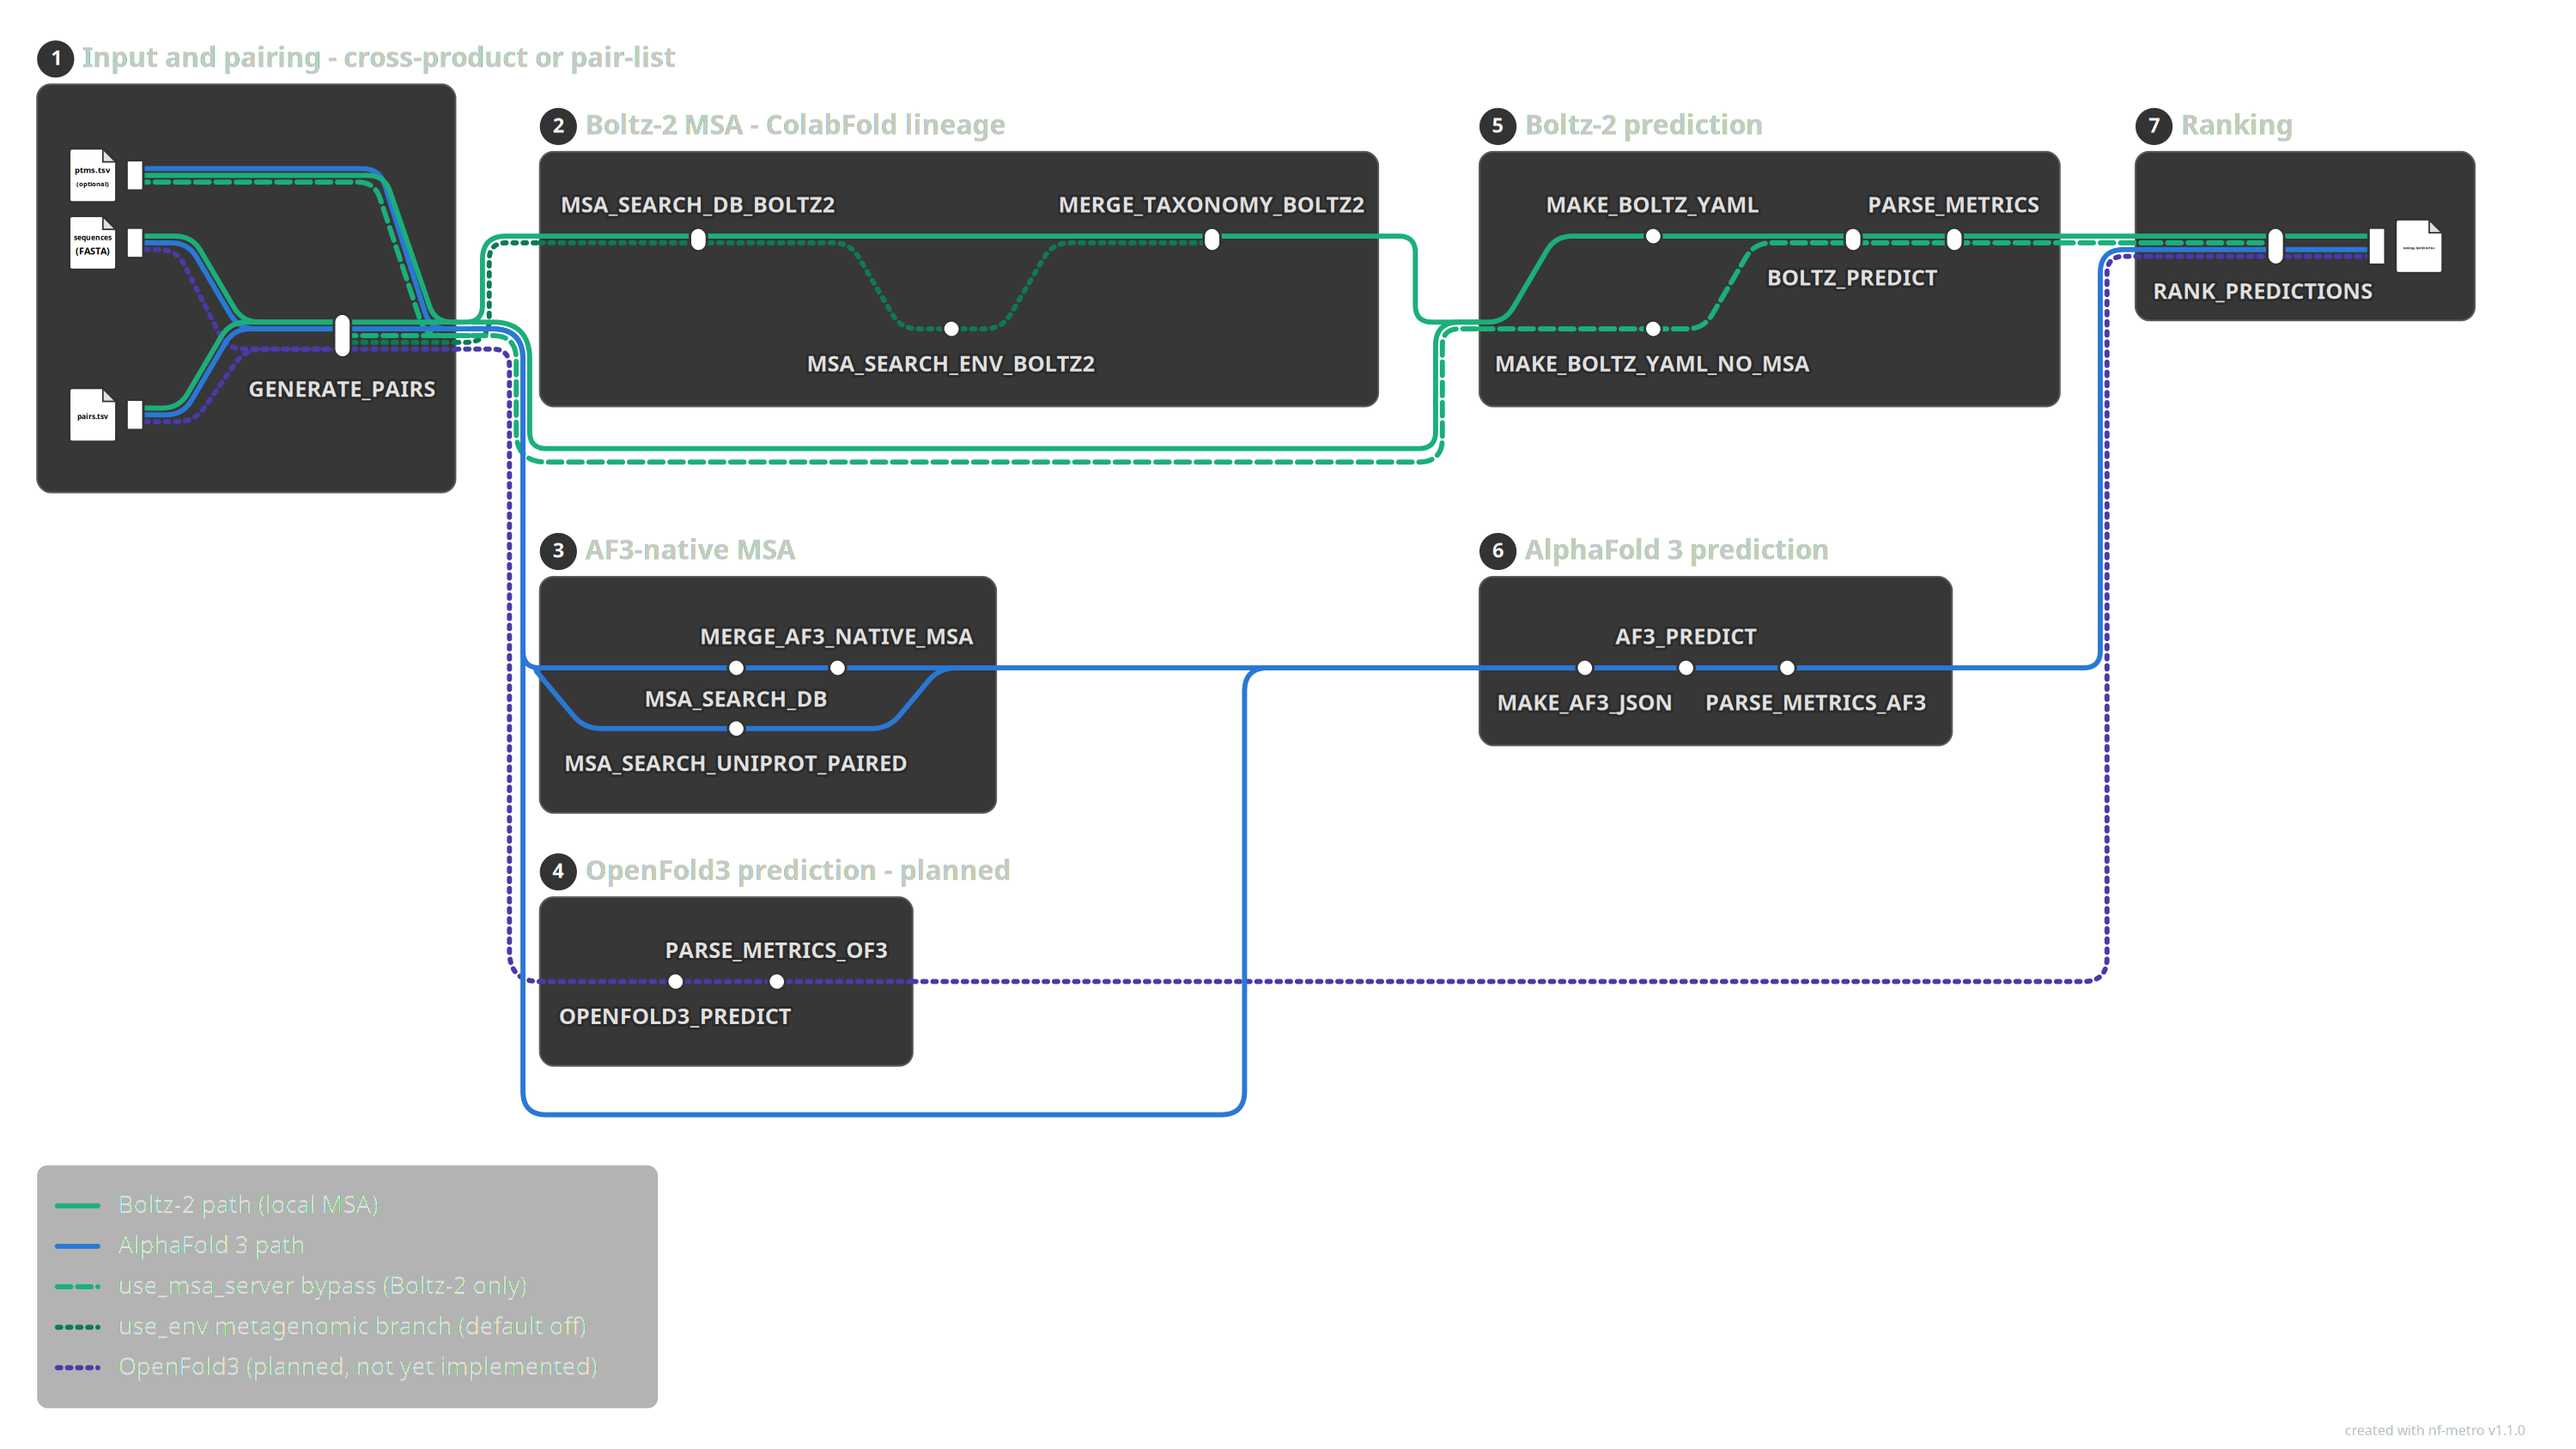
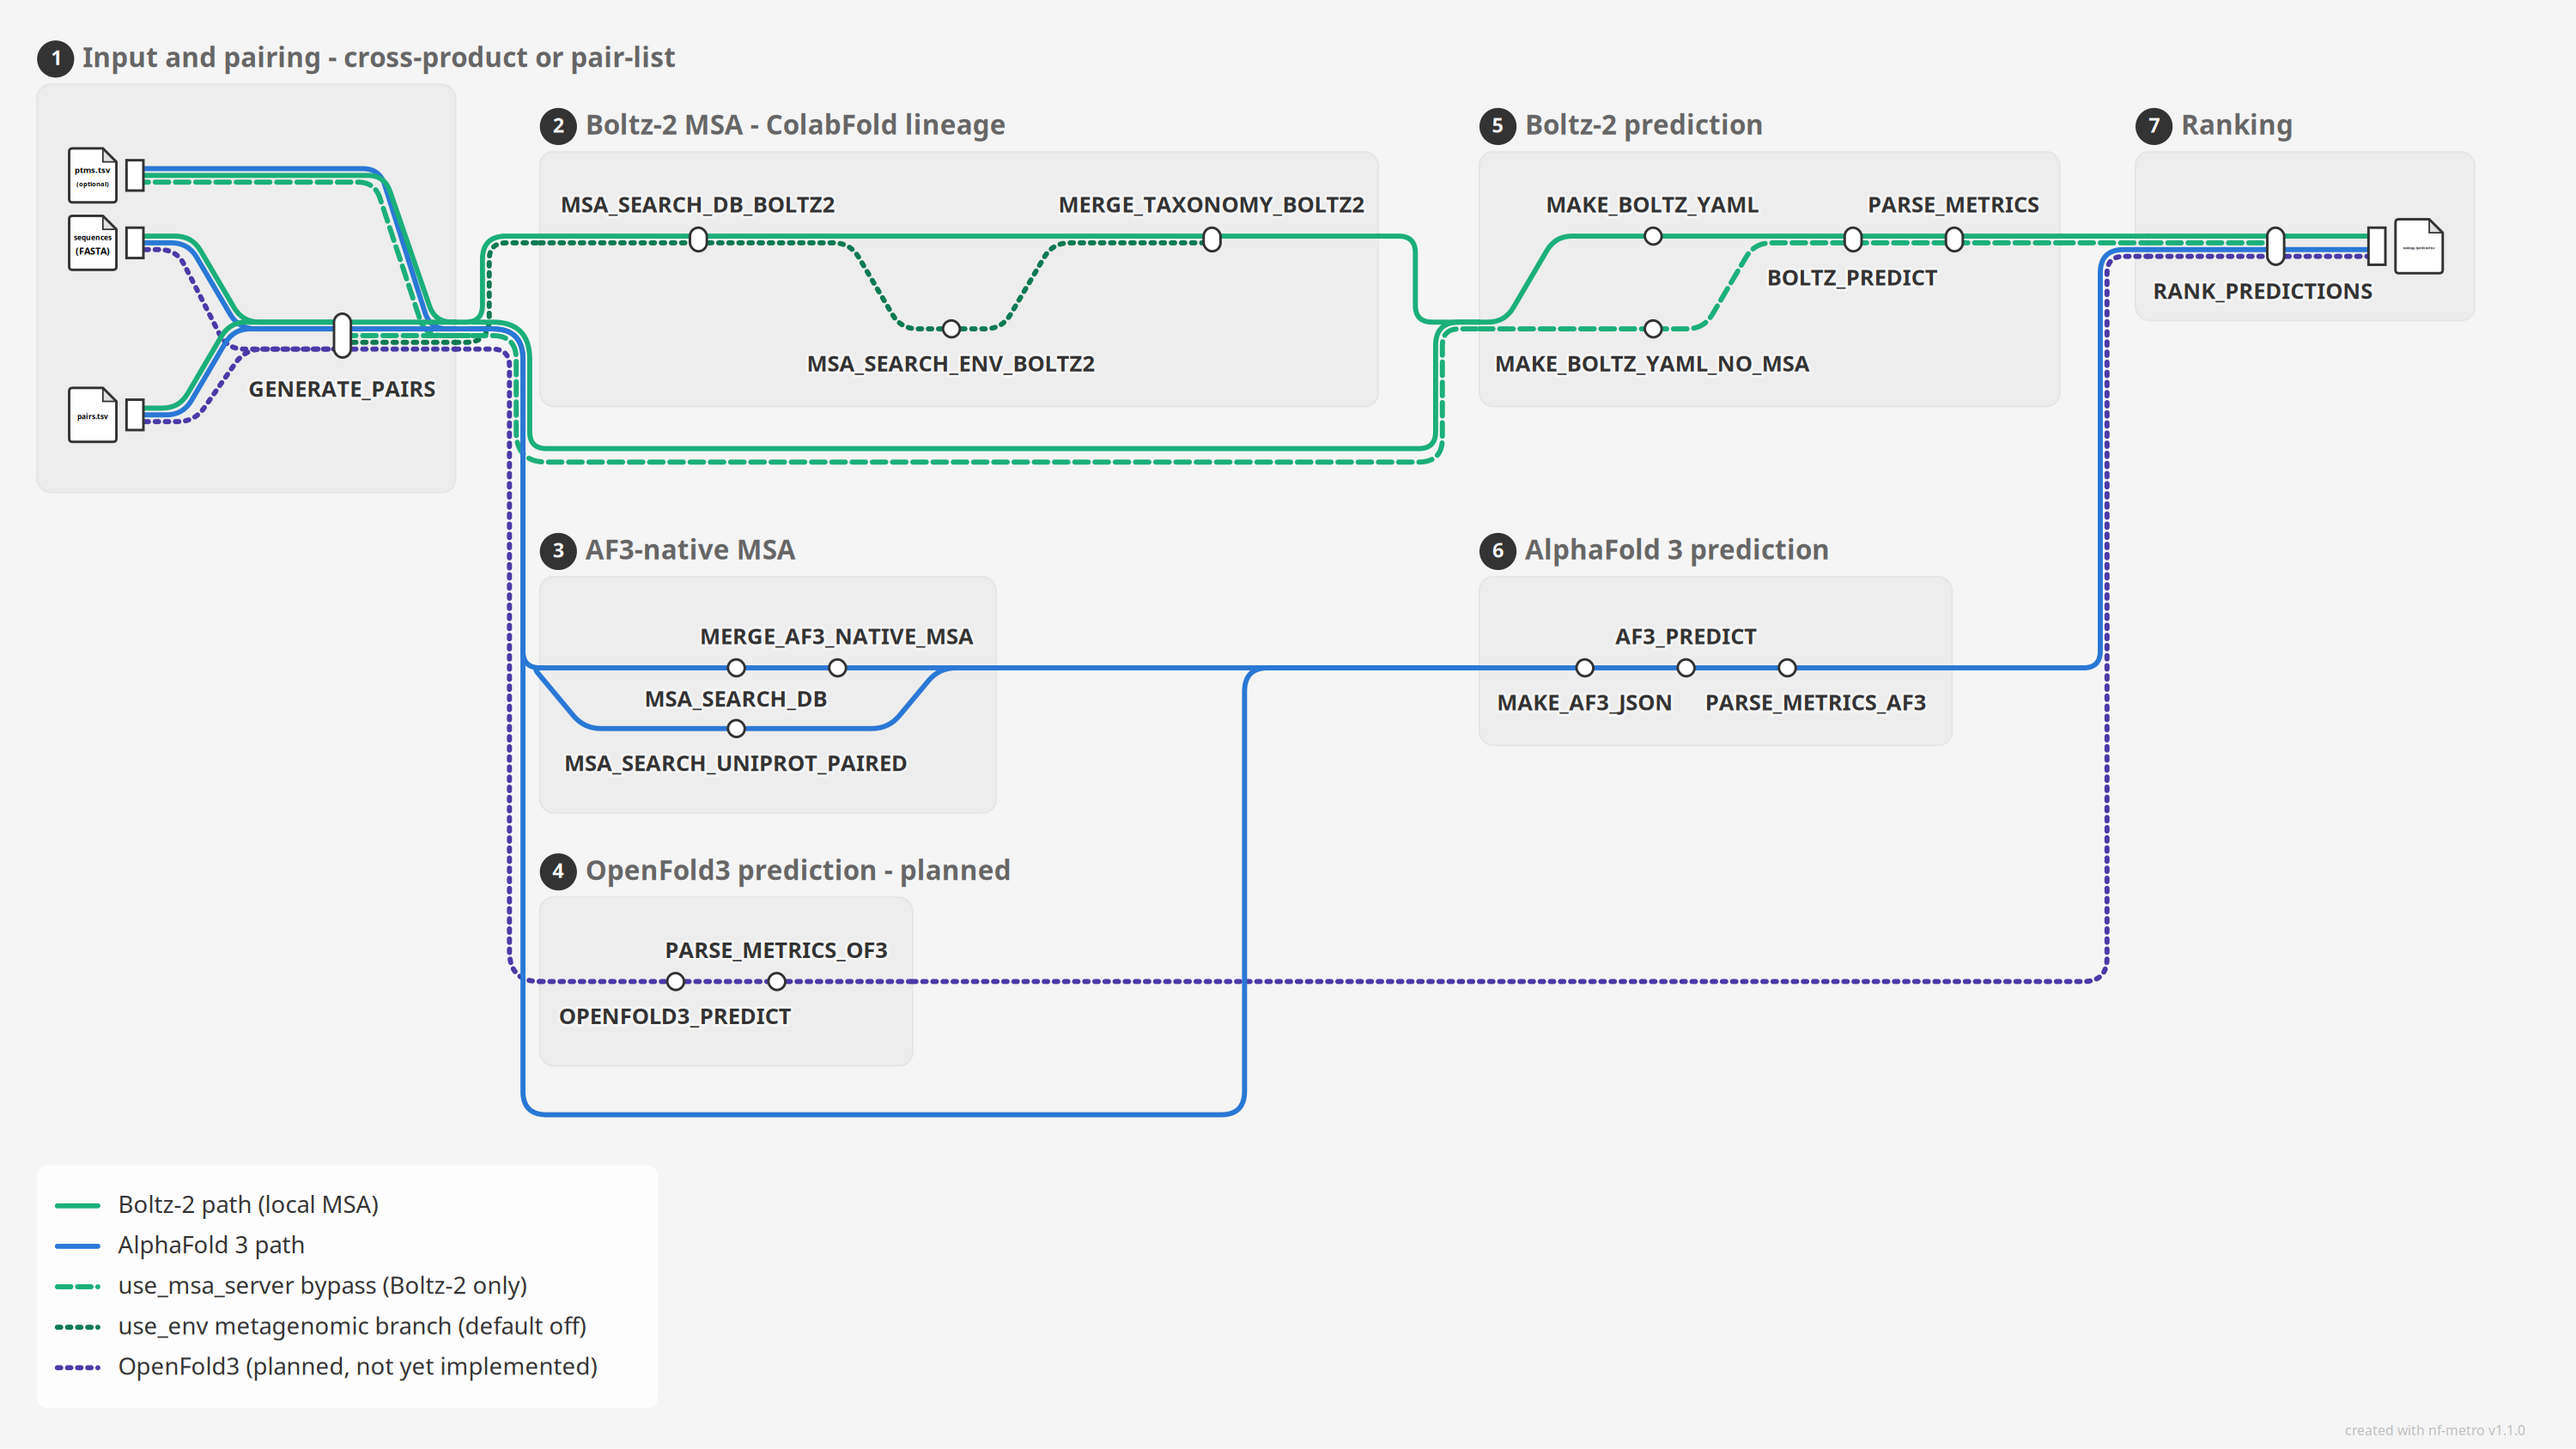
Updates to default configuration and documentation.
Updates to default configuration and documentation.

diff --git a/README.md b/README.md
@@ -4,7 +4,24 @@ Structure-based protein–protein interaction screening with [Boltz-2](https://g
 
 Analogous to [AlphaPulldown](https://github.com/KosinskiLab/AlphaPulldown) (Yu et al., *Bioinformatics* 2023) but built on a Nextflow pipeline that runs two independently trained next-generation structure predictors under a single ranking schema.
 
-![OmegaPulldown pipeline](extras/pipeline_subway.png)
+<picture>
+  <source media="(prefers-color-scheme: dark)" srcset="extras/pipeline_subway_dark.png">
+  <img alt="OmegaPulldown pipeline" src="extras/pipeline_subway.png">
+</picture>
+
+```groovy
+manifest {
+    name            = 'OmegaPulldown'
+    author          = 'Troy Whitfield'
+    homePage        = 'https://github.com/t-whitfield/OmegaPulldown'
+    description     = 'Structure-based protein-protein interaction screening with Boltz-2 and AlphaFold 3'
+    mainScript      = 'main.nf'
+    defaultBranch   = 'main'
+    version         = '1.0.0'
+    license         = 'MIT'
+    nextflowVersion = '>=23.04.0'
+}
+```
 
 ## Features
 
@@ -158,11 +175,11 @@ OmegaPulldown/
 
 ## Requirements
 
-- [Nextflow](https://www.nextflow.io/) ≥ 22.10
+- [Nextflow](https://www.nextflow.io/) ≥ 23.04.0
 - [mmseqs2](https://github.com/soedinglab/MMseqs2) (for local MSA computation; not needed if using `use_msa_server=true` with Boltz-2)
 - [Boltz-2](https://github.com/jwohlwend/boltz) (conda environment)
 - [AlphaFold 3](https://github.com/google-deepmind/alphafold3) (Singularity container). Model weights require a [license agreement with Google DeepMind](https://github.com/google-deepmind/alphafold3/blob/main/WEIGHTS_TERMS_OF_USE.md).
-- Python 3.9+ with numpy
+- Python 3.9+ with numpy ≥ 1.20, PyYAML ≥ 5.1, redis ≥ 4.0
 - Redis (for Boltz-2 local MSA mode only — used to serve `taxonomy.rdb` during taxonomy tagging)
 
 ## Local setup
